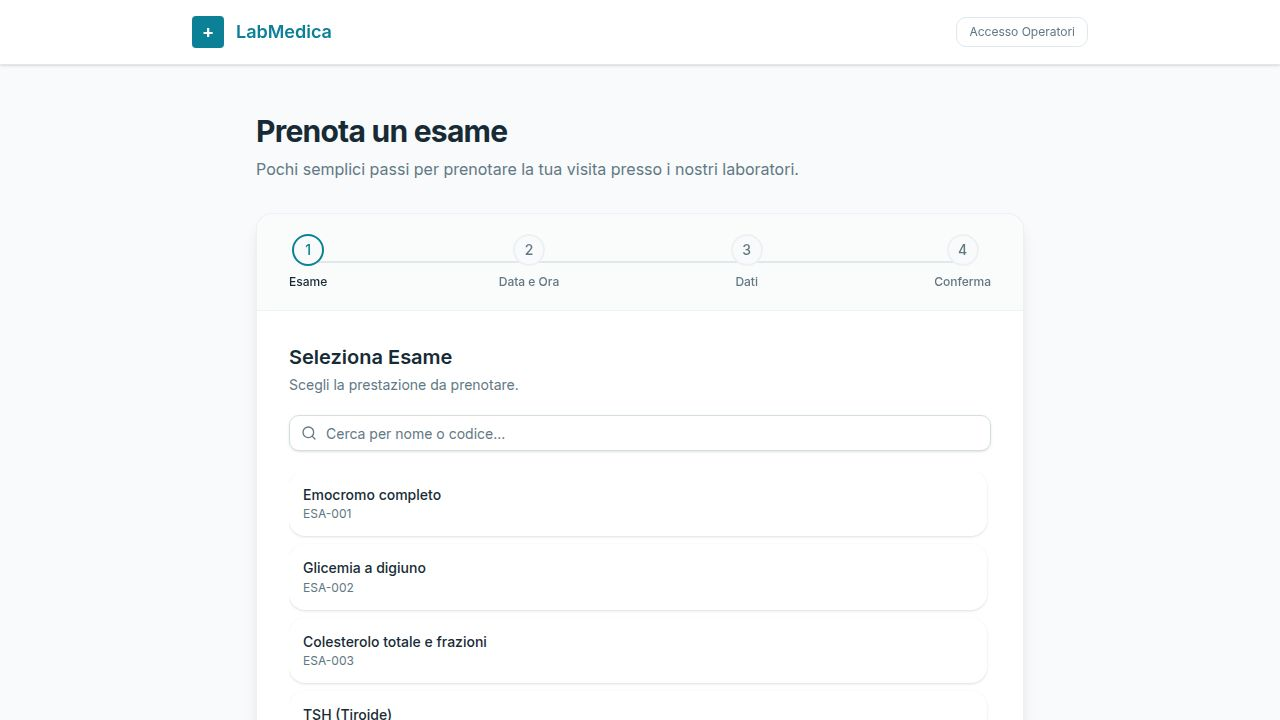
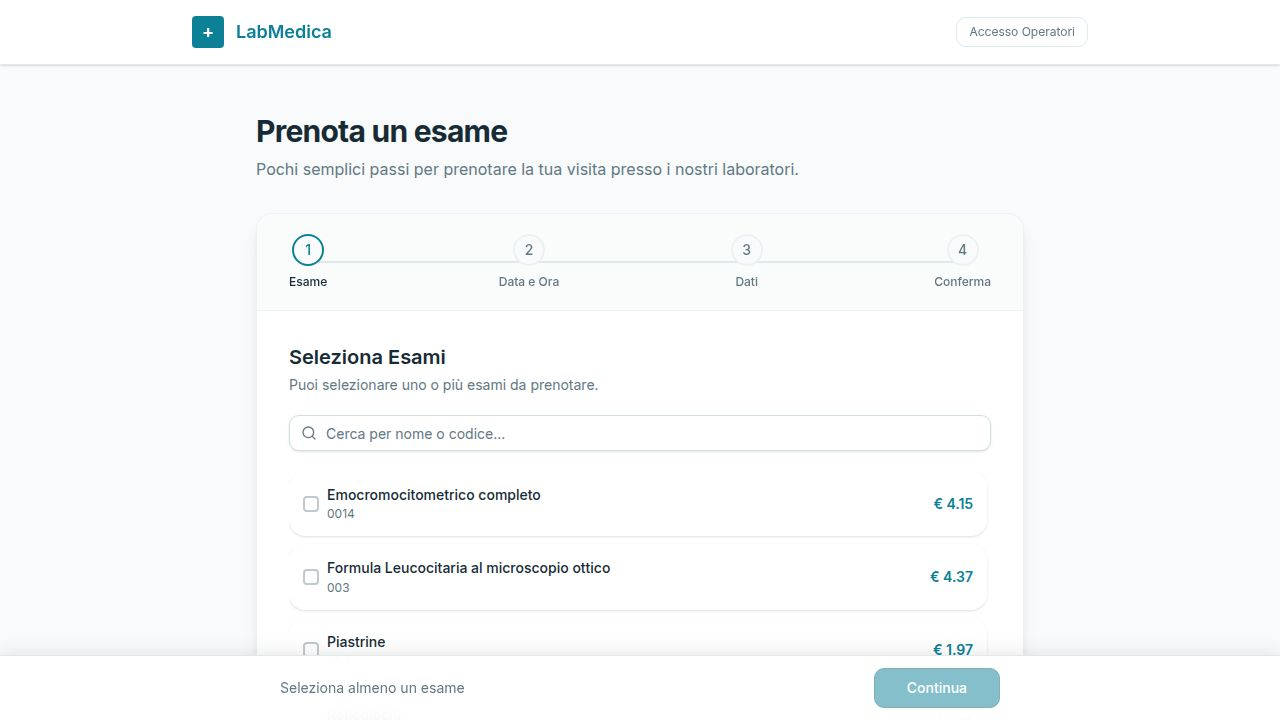
Add ability to generate patient quotes and lab worksheets as PDFs
Add PDF generation for patient quotes and lab worksheets with distinct print buttons in the booking dialog, utilizing a new print utility module and integrating the lab logo.

Replit-Commit-Author: Agent
Replit-Commit-Session-Id: 508e317d-6468-4f76-97bd-3dec9ae1c1b4
Replit-Commit-Checkpoint-Type: full_checkpoint
Replit-Commit-Event-Id: 3b3297b6-c4ba-4805-b11a-2776a3c12af5
Replit-Commit-Screenshot-Url: https://storage.googleapis.com/screenshot-production-us-central1/43510413-4f69-4494-818c-d73aa1a7d761/508e317d-6468-4f76-97bd-3dec9ae1c1b4/LcB8j70
Replit-Helium-Checkpoint-Created: true

diff --git a/artifacts/lab-booking/src/lib/printDocs.ts b/artifacts/lab-booking/src/lib/printDocs.ts
@@ -1,0 +1,238 @@
+export type PrintExam = {
+  codiceAnalisi: string;
+  descrizione: string;
+  colorProvetta?: string | null;
+  um?: string | null;
+  metodo?: string | null;
+  regola?: string | null;
+  importo?: string | null;
+  preparationInstructions?: string;
+};
+
+export type PrintPatient = {
+  firstName: string;
+  lastName: string;
+  dateOfBirth?: string;
+  codiceFiscale?: string;
+  gender?: string;
+  email?: string;
+  phone?: string;
+  billingAddress?: string;
+  billingCap?: string;
+  billingCity?: string;
+  billingProvincia?: string;
+};
+
+const LAB_INFO = {
+  name: "MEDICAL POLIAMBULATORI S.R.L.",
+  piva: "04233570367",
+  cf: "04233570367",
+  vat: "IT04233570367",
+  address: "STRADA VIGNOLESE 1164 - 41126 - MODENA (MO)",
+  rea: "454032",
+  pec: "[email redacted]",
+};
+
+function logoUrl(): string {
+  return `${window.location.origin}${import.meta.env.BASE_URL}logo-lab.png`;
+}
+
+function todayFormatted(): string {
+  return new Date().toLocaleDateString("it-IT", { day: "2-digit", month: "2-digit", year: "numeric" });
+}
+
+function printWindow(html: string) {
+  const w = window.open("", "_blank", "width=900,height=700");
+  if (!w) return;
+  w.document.write(html);
+  w.document.close();
+  w.focus();
+  setTimeout(() => { w.print(); }, 400);
+}
+
+const BASE_CSS = `
+  * { box-sizing: border-box; margin: 0; padding: 0; }
+  body { font-family: 'Helvetica Neue', Helvetica, Arial, sans-serif; font-size: 11px; color: #1a1a1a; background: #fff; padding: 24px 32px; }
+  .header { display: flex; justify-content: space-between; align-items: flex-start; border-bottom: 2px solid #1a1a1a; padding-bottom: 14px; margin-bottom: 18px; }
+  .logo { height: 56px; object-fit: contain; }
+  .lab-info { text-align: right; font-size: 9.5px; line-height: 1.55; color: #333; }
+  .lab-info strong { display: block; font-size: 11px; color: #1a1a1a; margin-bottom: 2px; }
+  .doc-title { font-size: 18px; font-weight: 700; margin-bottom: 16px; color: #1a1a1a; letter-spacing: -0.3px; }
+  .meta { font-size: 9.5px; color: #555; margin-bottom: 18px; }
+  .section-title { font-size: 9px; font-weight: 700; text-transform: uppercase; letter-spacing: 0.8px; color: #555; margin-bottom: 6px; margin-top: 18px; }
+  .patient-box { border: 1px solid #ddd; border-radius: 4px; padding: 10px 14px; margin-bottom: 20px; }
+  .patient-box .row { display: flex; gap: 24px; line-height: 1.7; }
+  .patient-box .row span { color: #555; }
+  .patient-box .row strong { color: #1a1a1a; }
+  table { width: 100%; border-collapse: collapse; margin-top: 4px; }
+  th { background: #f5f5f5; font-size: 9px; font-weight: 700; text-transform: uppercase; letter-spacing: 0.5px; padding: 6px 8px; text-align: left; border: 1px solid #ddd; }
+  td { padding: 6px 8px; border: 1px solid #e8e8e8; vertical-align: top; font-size: 10.5px; line-height: 1.4; }
+  tr:nth-child(even) td { background: #fafafa; }
+  .price-col { text-align: right; white-space: nowrap; }
+  .total-row td { font-weight: 700; background: #f0f0f0 !important; border-top: 2px solid #1a1a1a; }
+  .total-label { text-align: right; }
+  .badge { display: inline-block; padding: 1px 6px; border-radius: 10px; font-size: 9px; font-weight: 600; white-space: nowrap; }
+  .provetta { font-weight: 600; }
+  .footer { margin-top: 28px; padding-top: 10px; border-top: 1px solid #ddd; font-size: 9px; color: #888; text-align: center; }
+  @media print {
+    body { padding: 0; }
+    @page { margin: 12mm 14mm; size: A4; }
+  }
+`;
+
+function provettaColor(color: string | null | undefined): string {
+  if (!color) return "";
+  const map: Record<string, string> = {
+    rosso: "#d32f2f", viola: "#7b1fa2", verde: "#388e3c", giallo: "#f9a825",
+    blu: "#1565c0", arancio: "#e65100", grigio: "#757575", bianco: "#aaa",
+  };
+  const key = color.toLowerCase().trim();
+  const bg = Object.entries(map).find(([k]) => key.includes(k))?.[1] ?? "#999";
+  return `<span class="badge" style="background:${bg};color:#fff;">${color}</span>`;
+}
+
+export function printPreventivo(patient: PrintPatient, exams: PrintExam[]) {
+  const total = exams.reduce((s, e) => s + (e.importo ? Number(e.importo) : 0), 0);
+
+  const billingLines = [
+    patient.billingAddress,
+    [patient.billingCap, patient.billingCity, patient.billingProvincia ? `(${patient.billingProvincia})` : ""].filter(Boolean).join(" "),
+  ].filter(Boolean);
+
+  const patientBlock = `
+    <div class="section-title">Intestato a</div>
+    <div class="patient-box">
+      <div class="row">
+        <div><span>Nome: </span><strong>${patient.firstName} ${patient.lastName}</strong></div>
+        ${patient.codiceFiscale ? `<div><span>C.F.: </span><strong>${patient.codiceFiscale}</strong></div>` : ""}
+        ${patient.dateOfBirth ? `<div><span>Data di nascita: </span><strong>${patient.dateOfBirth}</strong></div>` : ""}
+      </div>
+      ${patient.email ? `<div style="margin-top:3px"><span>Email: </span><strong>${patient.email}</strong></div>` : ""}
+      ${billingLines.length ? `<div style="margin-top:3px"><span>Indirizzo: </span><strong>${billingLines.join(", ")}</strong></div>` : ""}
+    </div>
+  `;
+
+  const rows = exams.map((e, i) => `
+    <tr>
+      <td>${i + 1}</td>
+      <td style="font-weight:600">${e.codiceAnalisi}</td>
+      <td>${e.descrizione}</td>
+      <td class="price-col">${e.importo ? `€ ${Number(e.importo).toFixed(2)}` : "—"}</td>
+    </tr>
+  `).join("");
+
+  const html = `<!DOCTYPE html><html lang="it"><head><meta charset="UTF-8"><title>Preventivo – ${patient.firstName} ${patient.lastName}</title><style>${BASE_CSS}</style></head><body>
+    <div class="header">
+      <img src="${logoUrl()}" alt="Logo" class="logo" />
+      <div class="lab-info">
+        <strong>${LAB_INFO.name}</strong>
+        P.IVA: ${LAB_INFO.piva} &nbsp;|&nbsp; C.F.: ${LAB_INFO.cf}<br>
+        VAT EU: ${LAB_INFO.vat}<br>
+        ${LAB_INFO.address}<br>
+        REA: ${LAB_INFO.rea}<br>
+        PEC: ${LAB_INFO.pec}
+      </div>
+    </div>
+
+    <div class="doc-title">Preventivo Esami</div>
+    <div class="meta">Data emissione: ${todayFormatted()} &nbsp;|&nbsp; N° esami: ${exams.length}</div>
+
+    ${patientBlock}
+
+    <div class="section-title">Esami selezionati</div>
+    <table>
+      <thead>
+        <tr>
+          <th style="width:28px">#</th>
+          <th style="width:90px">Codice</th>
+          <th>Descrizione</th>
+          <th style="width:80px" class="price-col">Prezzo</th>
+        </tr>
+      </thead>
+      <tbody>
+        ${rows}
+        <tr class="total-row">
+          <td colspan="3" class="total-label">TOTALE</td>
+          <td class="price-col">€ ${total.toFixed(2)}</td>
+        </tr>
+      </tbody>
+    </table>
+
+    <div class="footer">
+      ${LAB_INFO.name} &nbsp;|&nbsp; P.IVA ${LAB_INFO.piva} &nbsp;|&nbsp; ${LAB_INFO.address} &nbsp;|&nbsp; PEC: ${LAB_INFO.pec}<br>
+      Documento generato il ${todayFormatted()} — Valido come preventivo, non come ricevuta fiscale.
+    </div>
+  </body></html>`;
+
+  printWindow(html);
+}
+
+export function printSchedaLaboratorio(patient: PrintPatient, exams: PrintExam[]) {
+  const rows = exams.map((e, i) => `
+    <tr>
+      <td>${i + 1}</td>
+      <td style="font-weight:600">${e.codiceAnalisi}</td>
+      <td>${e.descrizione}</td>
+      <td>${provettaColor(e.colorProvetta)}</td>
+      <td>${e.um ?? "—"}</td>
+      <td>${e.metodo ?? "—"}</td>
+      <td>${e.regola ?? "—"}</td>
+      <td>${e.preparationInstructions ?? "—"}</td>
+    </tr>
+  `).join("");
+
+  const html = `<!DOCTYPE html><html lang="it"><head><meta charset="UTF-8"><title>Scheda Lab – ${patient.firstName} ${patient.lastName}</title><style>
+    ${BASE_CSS}
+    table { font-size: 9.5px; }
+    th { font-size: 8px; }
+    td { padding: 5px 6px; }
+  </style></head><body>
+    <div class="header">
+      <img src="${logoUrl()}" alt="Logo" class="logo" />
+      <div class="lab-info">
+        <strong>${LAB_INFO.name}</strong>
+        P.IVA: ${LAB_INFO.piva} &nbsp;|&nbsp; C.F.: ${LAB_INFO.cf}<br>
+        VAT EU: ${LAB_INFO.vat}<br>
+        ${LAB_INFO.address}<br>
+        REA: ${LAB_INFO.rea}<br>
+        PEC: ${LAB_INFO.pec}
+      </div>
+    </div>
+
+    <div class="doc-title">Scheda Laboratorio</div>
+    <div class="meta">Data: ${todayFormatted()} &nbsp;|&nbsp; N° esami: ${exams.length}</div>
+
+    <div class="section-title">Paziente</div>
+    <div class="patient-box">
+      <div class="row">
+        <div><span>Nome: </span><strong>${patient.firstName} ${patient.lastName}</strong></div>
+        ${patient.dateOfBirth ? `<div><span>Nato il: </span><strong>${patient.dateOfBirth}</strong></div>` : ""}
+        ${patient.codiceFiscale ? `<div><span>C.F.: </span><strong>${patient.codiceFiscale}</strong></div>` : ""}
+        ${patient.gender ? `<div><span>Sesso: </span><strong>${patient.gender === "M" ? "Maschio" : "Femmina"}</strong></div>` : ""}
+      </div>
+    </div>
+
+    <div class="section-title">Dettaglio esami</div>
+    <table>
+      <thead>
+        <tr>
+          <th style="width:22px">#</th>
+          <th style="width:80px">Codice</th>
+          <th style="min-width:150px">Descrizione</th>
+          <th style="width:80px">Provetta</th>
+          <th style="width:40px">UM</th>
+          <th style="width:90px">Metodo</th>
+          <th style="width:80px">Regola</th>
+          <th>Istruzioni preparazione</th>
+        </tr>
+      </thead>
+      <tbody>${rows}</tbody>
+    </table>
+
+    <div class="footer">
+      USO INTERNO — ${LAB_INFO.name} &nbsp;|&nbsp; Documento generato il ${todayFormatted()}
+    </div>
+  </body></html>`;
+
+  printWindow(html);
+}

diff --git a/artifacts/lab-booking/src/components/NuovaPrenotazioneDialog.tsx b/artifacts/lab-booking/src/components/NuovaPrenotazioneDialog.tsx
@@ -32,8 +32,11 @@ import {
   Clock,
   UserPlus,
   UserCheck,
+  Printer,
+  FileText,
 } from "lucide-react";
 import { parseFiscalCode } from "@/lib/fiscalCode";
+import { printPreventivo, printSchedaLaboratorio } from "@/lib/printDocs";
 
 type PatientData = {
   id?: number;
@@ -416,6 +419,38 @@ export function NuovaPrenotazioneDialog({ open, onClose, defaultDate }: Props) {
                       </Badge>
                     ))}
                     <span className="text-xs text-muted-foreground self-center ml-auto">€ {totalPrice.toFixed(2)}</span>
+                  </div>
+                )}
+
+                {/* ─── Stampa documenti ─── */}
+                {selectedExamIds.length > 0 && activePatient && (
+                  <div className="rounded-lg border border-border bg-muted/30 p-3 space-y-2">
+                    <p className="text-xs font-semibold uppercase tracking-wide text-muted-foreground flex items-center gap-1.5">
+                      <Printer className="h-3.5 w-3.5" />
+                      Stampa / Esporta PDF
+                    </p>
+                    <div className="flex flex-wrap gap-2">
+                      <Button
+                        type="button"
+                        variant="outline"
+                        size="sm"
+                        className="gap-2 text-xs"
+                        onClick={() => printPreventivo(activePatient, selectedExams)}
+                      >
+                        <FileText className="h-3.5 w-3.5 text-primary" />
+                        Preventivo Paziente
+                      </Button>
+                      <Button
+                        type="button"
+                        variant="outline"
+                        size="sm"
+                        className="gap-2 text-xs"
+                        onClick={() => printSchedaLaboratorio(activePatient, selectedExams)}
+                      >
+                        <FlaskConical className="h-3.5 w-3.5 text-primary" />
+                        Scheda Laboratorio
+                      </Button>
+                    </div>
                   </div>
                 )}
 